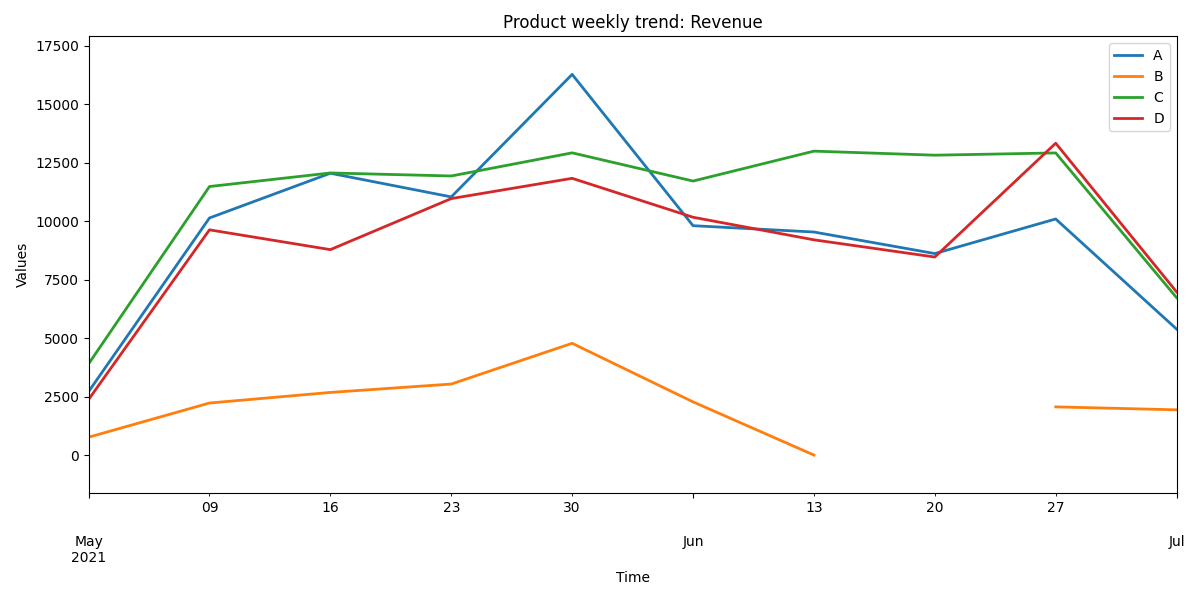
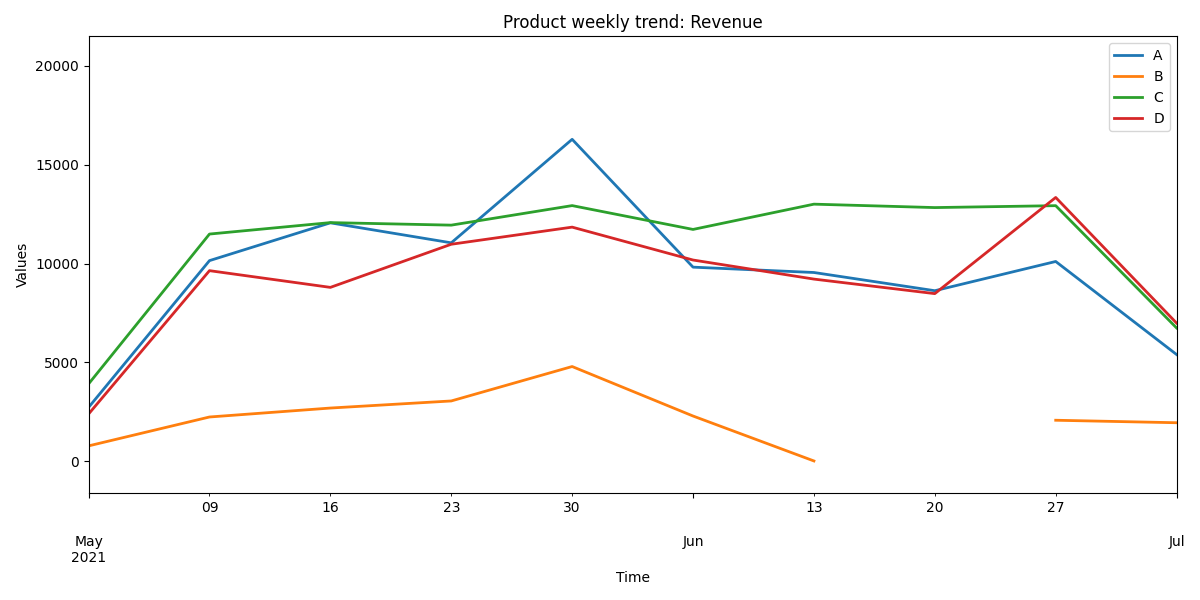
Increase y limit to accommodate legend

diff --git a/wh/src/task2.py b/wh/src/task2.py
@@ -20,6 +20,9 @@ def _time_series_figure(df: pd.DataFrame, filename: str, title: str) -> None:
     plt.margins(x=0, y=0.1)
     plt.tight_layout()
 
+    ymin, ymax = plt.ylim()
+    plt.ylim(ymin, ymax * 1.2)
+
     plt.savefig(filename)
 
 
